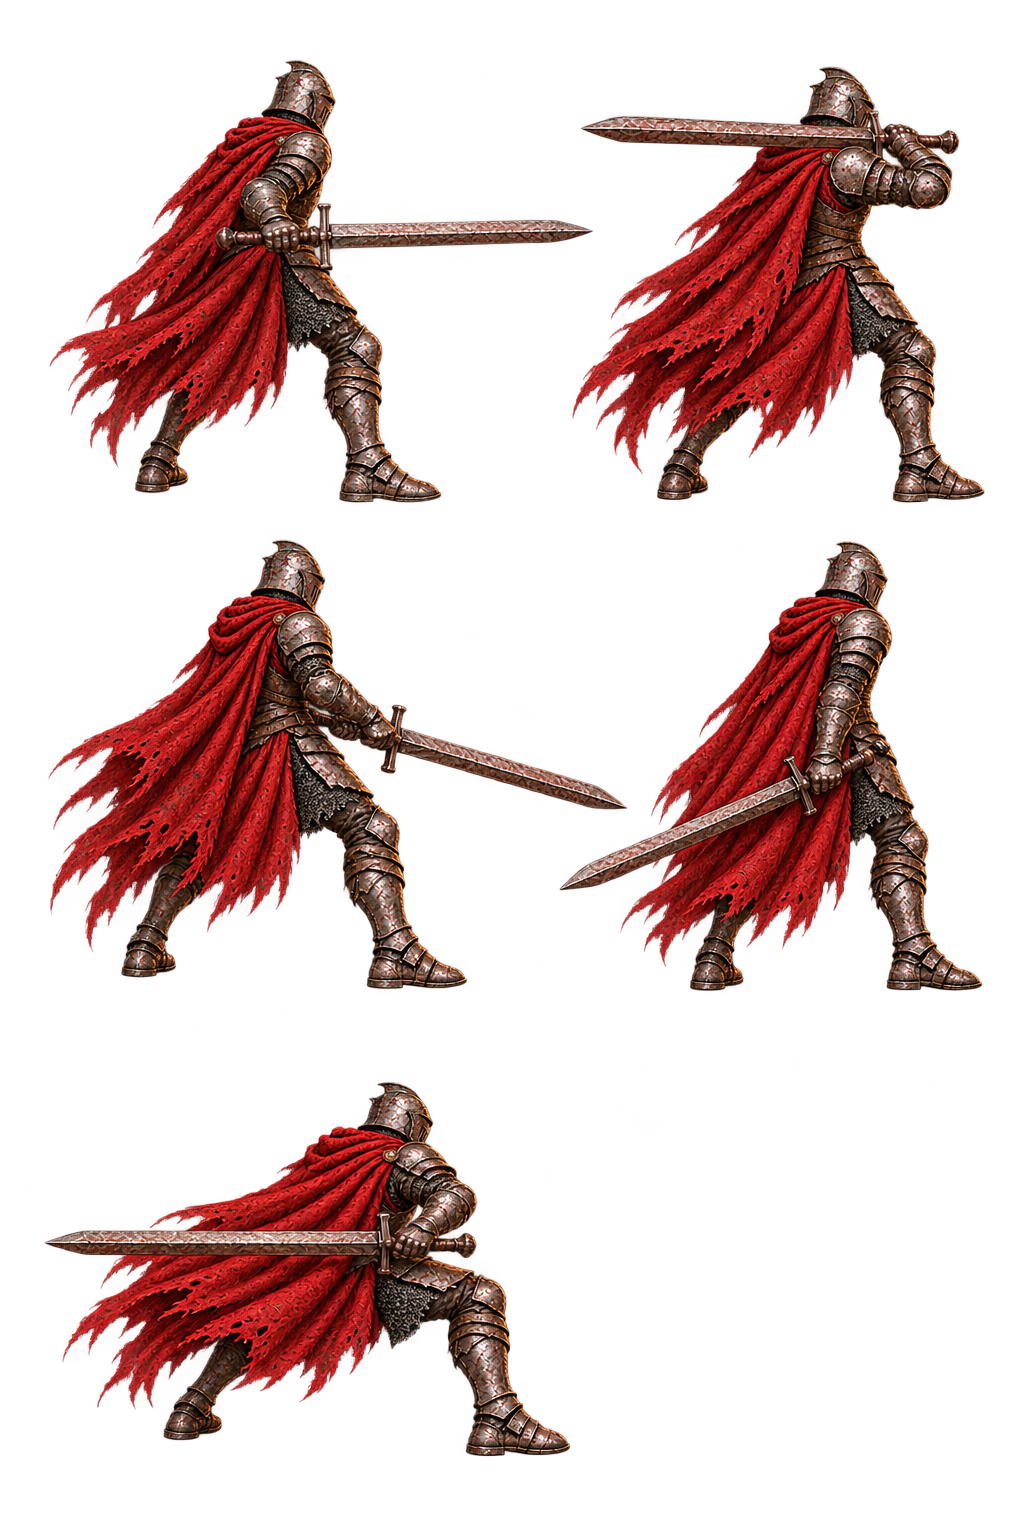
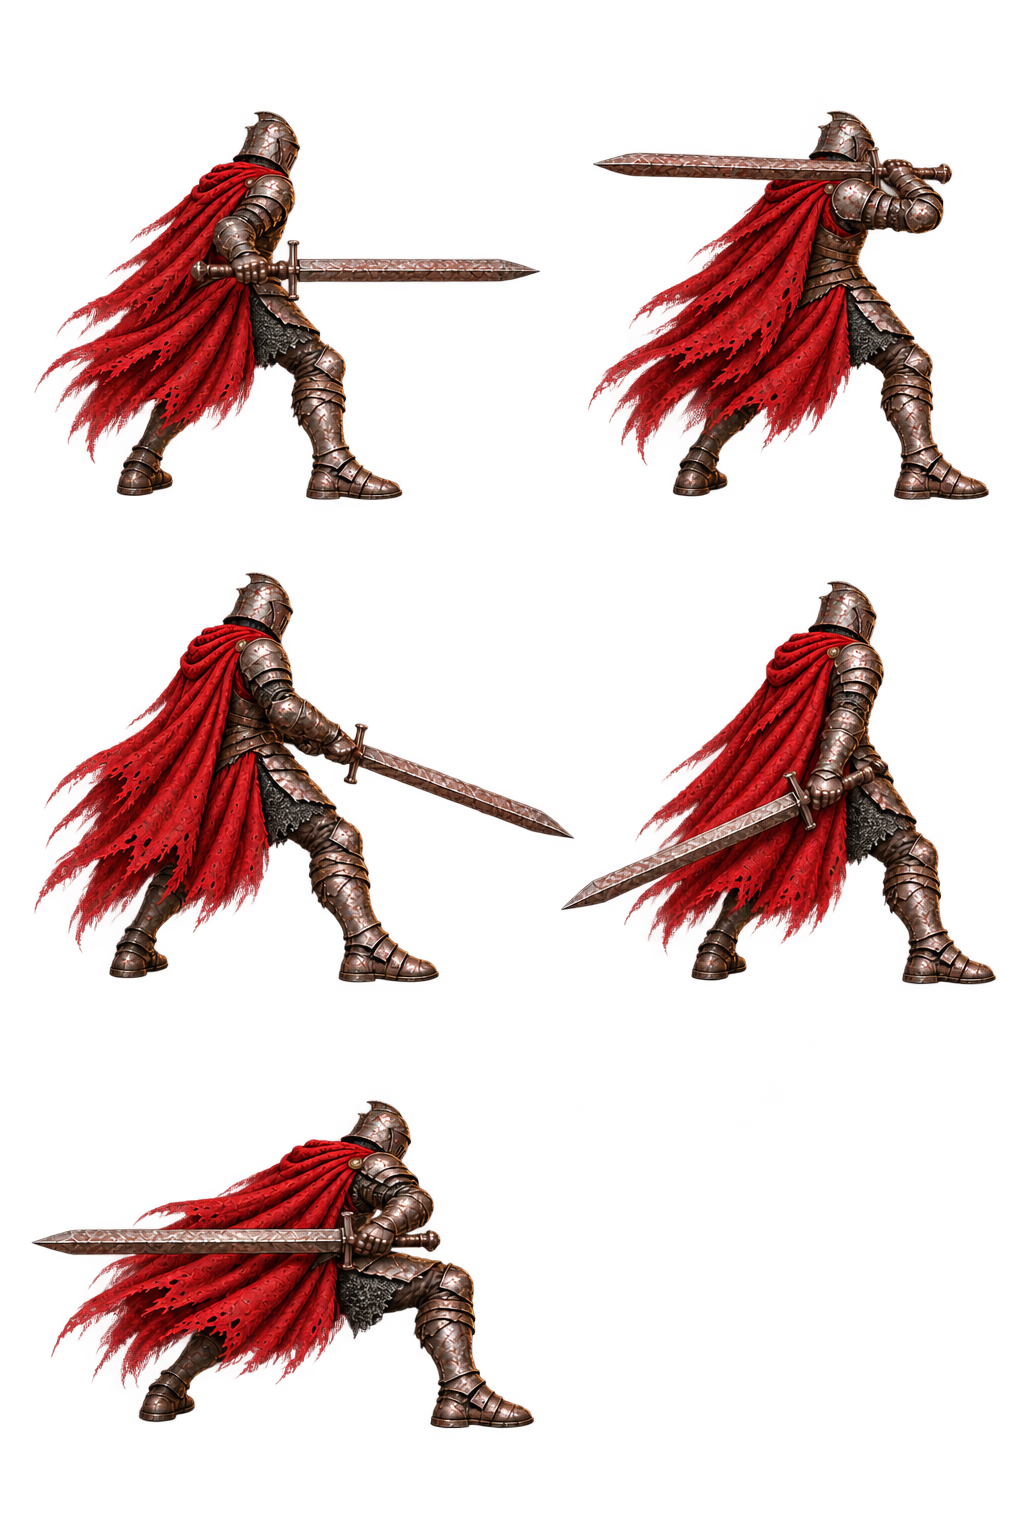
Correct Sweep output attribution and select A grip edit

Changed region(s): [[0.0312, 0.0312, 0.9688, 0.6562], [0.5625, 0.0312, 0.9688, 0.3438], [0.0312, 0.6875, 0.5625, 0.9688]]

diff --git a/pose-studio/stances/update-stances/greatsword-sweep/README.md b/pose-studio/stances/update-stances/greatsword-sweep/README.md
@@ -1,9 +1,7 @@
-# Greatsword sweep generation receipts
+# Greatsword sweep options
 
-This directory preserves raw image-generation outputs and prompt/provenance records. Do not treat every receipt as Sweep artwork or as production art. Concurrent imagegen requests contaminated output attribution; root verified some outputs are identical to other stance families.
+`sheet-a.png` is the explicit returned grip-edit output approved by root as five concept candidates. Its candidate mapping is recorded in the provenance. `sheet-a-original.png` preserves the earlier unedited concept board; `sheet-a-revision-pass1.original.png` preserves the earlier grip-revision pass.
 
-`sheet-a.png` is the original SW11–SW15 candidate reviewed by the director. It still needs clearer two-hand grip reads on SW11, SW13, and SW14. The separate A revision outputs are pending identity and art review. `unattributed-output-a-revision-b02.original.png` is verified to be identical to Counter A revision 2 and is not a Sweep output.
+`sheet-b.png` is the explicit returned output for SW16–SW20 and is the source for one targeted B edit. Its board is pending that edit and director review. Do not use old files selected by directory timestamp; the correction record explains the worker selection error and the verified hashes.
 
-The requested SW16–SW20 prompt and generation receipts remain documented in `sheet-b.prompt.txt` and `sheet-b.provenance.json`. `unattributed-output-b01.original.png` is verified to be identical to Evade A revision 1 and is not a Sweep output. The second B output is preserved as an unverified raw receipt. Neither is approved as Sweep art.
-
-All PNG source bytes are preserved unchanged. Direct image-view rendering can expose hidden RGB haze; neutral compositing over white confirms transparent pixels and rendered figure pixels, but does not establish which family an output belongs to. See the provenance files for hashes and exact prompt/reference records.
+All source PNGs remain unchanged. These are concept candidates, not runtime assets. See the prompts and provenance files for exact imagegen inputs and returned paths.

diff --git a/pose-studio/stances/update-stances/greatsword-sweep/selection-corrections.md b/pose-studio/stances/update-stances/greatsword-sweep/selection-corrections.md
@@ -1,0 +1,10 @@
+# Output attribution correction
+
+The worker incorrectly selected files by sorting `/workspace/generated_images` by modification time after concurrent imagegen calls. That method attributed unrelated outputs to Sweep. Selection now uses only the explicit path returned by each imagegen call.
+
[4 lines of base64/hex data omitted]
+
+This was a worker file-selection error. The image generation tool was not the cause.
